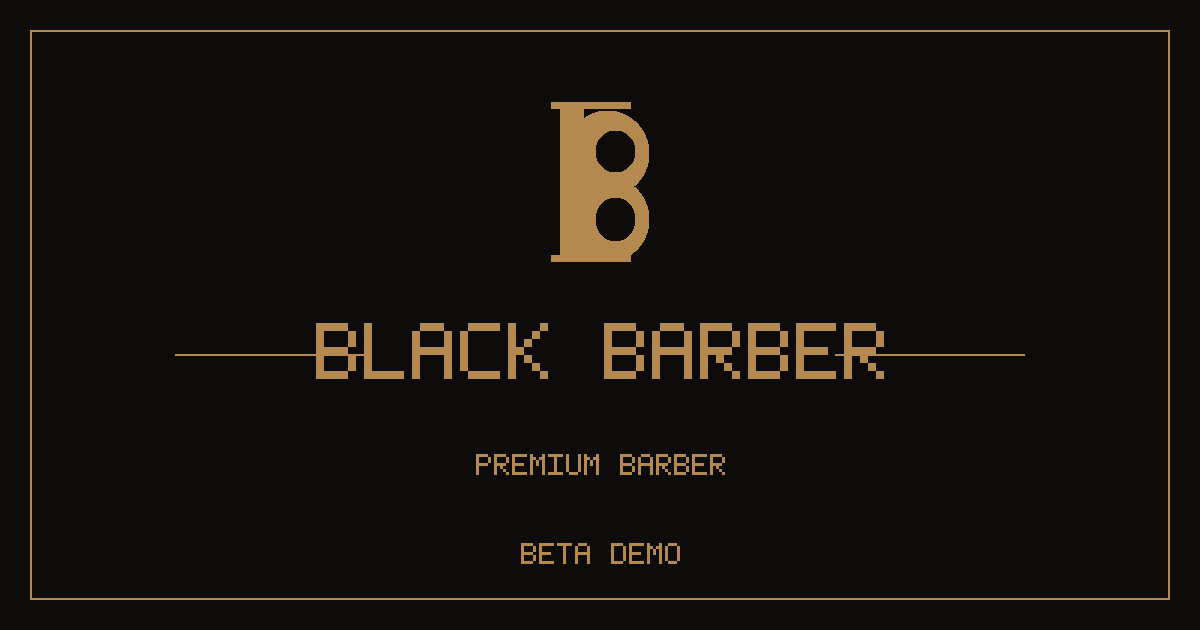
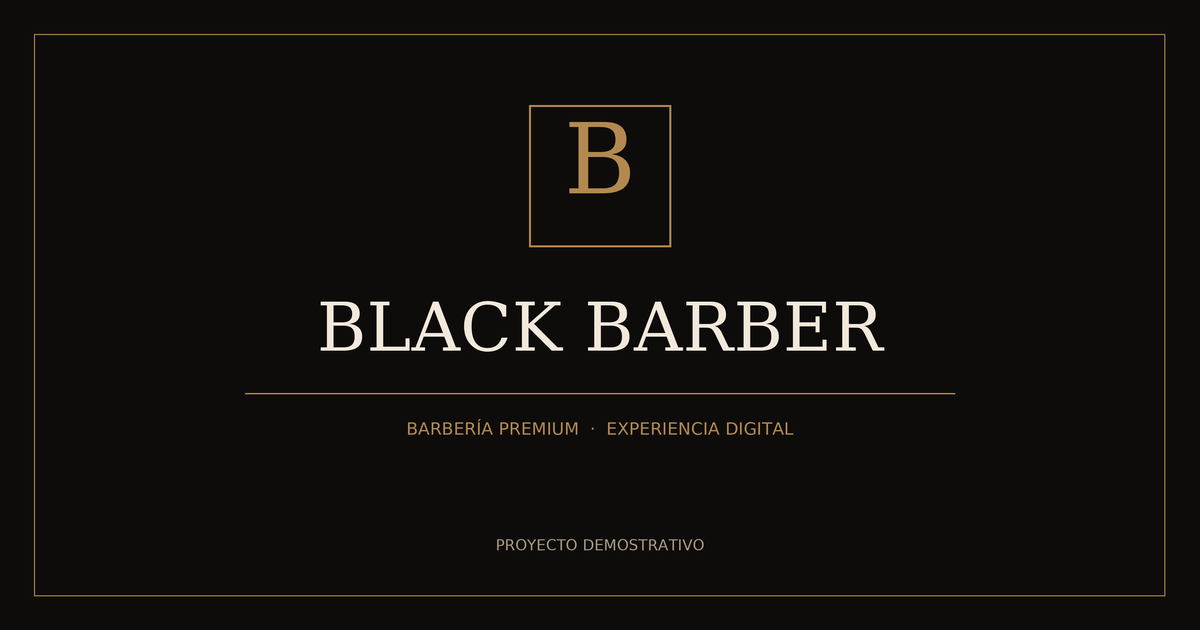
feat: finalizar BLACK BARBER BETA y controles de calidad
* ci: add agency browser quality checks (tests/demo.spec.cjs)

* ci: add agency browser quality checks (playwright.config.cjs)

* ci: add agency browser quality checks (.github/workflows/agency-quality.yml)

* test: assert textarea value rather than text content

* ci: run quality checks on pull requests without duplicate pushes

* docs: establish agency-wide autonomous CI and release policy

* ci: add reusable fail-closed release verification

* ci: verify merged PR and successful checks before release

* ci: validate release gate script in pull request checks

* ci: expose release check on PR while enforcing policy only on main

* test: verify OG metadata and browser-decodable 1200x630 image

* test: detect horizontal overflow across mobile and tablet menu states

* test: cover tablet breakpoint boundaries for horizontal overflow

* test: inspect actual Open Graph image color fidelity

* fix: activate compact navigation before tablet header overflows

* test: validate menu opening through the corrected tablet breakpoint

* chore: temporary one-shot workflow to rebuild anti-aliased OG asset

* fix: add reproducible high-resolution Open Graph image renderer

* fix: regenerate crisp anti-aliased Open Graph image

* test: reject severely posterized social image

* chore: remove temporary OG regeneration workflow after successful asset rebuild

* test: capture browser screenshots as downloadable GitHub Actions artifact
[…]

diff --git a/index.html b/index.html
@@ -190,6 +190,11 @@
   .nav-toggle[aria-expanded="true"] span{ background:transparent; }
   .nav-toggle[aria-expanded="true"] span::before{ top:0; transform:rotate(45deg); }
   .nav-toggle[aria-expanded="true"] span::after{ top:0; transform:rotate(-45deg); }
+  .nav-toggle[aria-expanded="true"] span{ visibility:hidden; }
+  .nav-toggle[aria-expanded="true"]::after{
+    content:"×"; position:absolute; inset:0; display:flex; align-items:center; justify-content:center;
+    color:var(--bone); font-size:25px; line-height:1;
+  }
 
   /* =========================================================
      HERO
@@ -496,7 +501,7 @@
     .footer-top{ grid-template-columns:1fr 1fr; }
   }
 
-  @media (max-width: 860px){
+  @media (max-width: 1023px){
     .primary-nav{
       position:fixed; inset:0 0 0 auto; width:min(78vw,340px);
       background:var(--ink-soft); border-left:1px solid var(--line);

diff --git a/.github/scripts/verify-release.py b/.github/scripts/verify-release.py
@@ -1,0 +1,70 @@
+#!/usr/bin/env python3
+"""Fail-closed release gate: main commits must come from a merged PR with passing checks."""
+import json
+import os
+import sys
+import urllib.error
+import urllib.parse
+import urllib.request
+
+
+def fail(message):
+    print("RELEASE BLOCKED:", message, file=sys.stderr)
+    sys.exit(1)
+
+
+def github_api(path):
+    request = urllib.request.Request(
+        "https://api.github.com" + path,
+        headers={
+            "Accept": "application/vnd.github+json",
+            "Authorization": "Bearer " + os.environ["GH_TOKEN"],
+            "X-GitHub-Api-Version": "2022-11-28",
+            "User-Agent": "agencia-web-release-gate",
+        },
+    )
+    try:
+        with urllib.request.urlopen(request, timeout=20) as response:
+            return json.load(response)
+    except (urllib.error.HTTPError, urllib.error.URLError, ValueError) as error:
+        fail("GitHub API could not be verified: " + str(error))
+
+
+repo = os.environ["GITHUB_REPOSITORY"]
+sha = os.environ["GITHUB_SHA"]
+expected = [entry.strip() for entry in os.environ["EXPECTED_WORKFLOWS"].split(",") if entry.strip()]
+if os.environ.get("GITHUB_REF") != "refs/heads/main":
+    fail("This gate only permits the main branch")
+if not expected:
+    fail("No required PR workflows configured")
+
+associated_prs = github_api("/repos/" + repo + "/commits/" + sha + "/pulls?per_page=100")
+approved_prs = [
+    pr for pr in associated_prs
+    if pr.get("merged_at")
+    and pr.get("base", {}).get("ref") == "main"
+    and pr.get("merge_commit_sha") == sha
+]
+if not approved_prs:
+    fail("Commit is not the merge result of a pull request into main")
+
+pr = approved_prs[0]
+head_sha = pr["head"]["sha"]
+query = urllib.parse.urlencode({"head_sha": head_sha, "event": "pull_request", "per_page": "100"})
+results = github_api("/repos/" + repo + "/actions/runs?" + query)
+runs = results.get("workflow_runs", [])
+for workflow_path in expected:
+    matching = [
+        run for run in runs
+        if run.get("path") == workflow_path
+        and run.get("head_sha") == head_sha
+        and run.get("event") == "pull_request"
+    ]
+    if not matching:
+        fail("No PR test run for " + workflow_path)
+    latest = max(matching, key=lambda run: (run.get("updated_at", ""), run.get("run_attempt", 0)))
+    if latest.get("status") != "completed" or latest.get("conclusion") != "success":
+        fail(workflow_path + " was not successful (latest: " + str(latest.get("conclusion")) + ")")
+    print("PASSED", workflow_path, "run", latest["id"])
+
+print("RELEASE APPROVED: PR #" + str(pr["number"]) + " had all required checks.")

diff --git a/scripts/render_og.py b/scripts/render_og.py
@@ -1,0 +1,54 @@
+#!/usr/bin/env python3
+"""Generate BLACK BARBER's 1200x630 social card with anti-aliased typography."""
+from pathlib import Path
+from PIL import Image, ImageDraw, ImageFont
+
+W, H, SCALE = 1200, 630, 3
+BG = "#0e0c0a"
+GOLD = "#b3894f"
+CREAM = "#f2e9dc"
+MUTED = "#a99b84"
+FONTS = Path("/usr/share/fonts/truetype/dejavu")
+SERIF = FONTS / "DejaVuSerif.ttf"
+SANS = FONTS / "DejaVuSans.ttf"
+
+image = Image.new("RGB", (W * SCALE, H * SCALE), BG)
+draw = ImageDraw.Draw(image)
+
+
+def rectangle(bounds, fill=None, outline=None, line=1):
+    draw.rectangle(
+        tuple(round(p * SCALE) for p in bounds),
+        fill=fill, outline=outline, width=line * SCALE,
+    )
+
+
+def centered_text(y, value, font_path, font_size, color, tracking=0):
+    font = ImageFont.truetype(str(font_path), font_size * SCALE)
+    bounds = draw.textbbox((0, 0), value, font=font)
+    if tracking:
+        advances = [draw.textlength(character, font=font) for character in value]
+        total = sum(advances) + (len(value) - 1) * tracking * SCALE
+        x = (W * SCALE - total) / 2
+        for character, advance in zip(value, advances):
+            draw.text((round(x), round(y * SCALE - bounds[1])),
+                      character, fill=color, font=font)
+            x += advance + tracking * SCALE
+    else:
+        x = (W * SCALE - (bounds[2] - bounds[0])) / 2
+        draw.text((round(x), round(y * SCALE - bounds[1])),
+                  value, fill=color, font=font)
+
+
+rectangle((34, 34, 1165, 596), outline=GOLD)
+rectangle((529, 105, 671, 247), outline=GOLD, line=2)
+centered_text(122, "B", SERIF, 98, GOLD)
+centered_text(301, "BLACK BARBER", SERIF, 67, CREAM, tracking=0.4)
+rectangle((245, 393, 955, 394), fill=GOLD)
+centered_text(419, "BARBERÍA PREMIUM  ·  EXPERIENCIA DIGITAL",
+              SANS, 17, GOLD, tracking=0.1)
+centered_text(539, "PROYECTO DEMOSTRATIVO", SANS, 15, MUTED, tracking=0.1)
+
+output = Path(__file__).resolve().parent.parent / "black-barber-og.png"
+image.resize((W, H), Image.Resampling.LANCZOS).save(output, optimize=True)
+print(f"Created {output}: 1200x630, RGB, anti-aliased")

diff --git a/AGENTS.md b/AGENTS.md
@@ -1,0 +1,29 @@
+# AGENCIA WEB | POLÍTICA DE DESARROLLO Y PUBLICACIÓN
+
+Estas instrucciones aplican a cualquier agente que trabaje en este repositorio. Se reutilizan en las BETA y en futuros proyectos de clientes.
+
+## Desarrollo autónomo
+- Nunca desarrollar ni hacer commits de prueba directamente en `main`.
+- Crear una rama de trabajo (`feat/*`, `fix/*`, `audit/*` o `ci/*`).
+- Agrupar cambios por objetivo. Evitar pushes repetitivos y despliegues de prueba innecesarios.
+- Ejecutar las pruebas disponibles y corregir fallos antes de integrar.
+- Crear un pull request hacia `main` y comprobar GitHub Actions. Si falla o no se ejecuta, **no integrar**.
+- No afirmar que algo fue probado si solo se revisó el código o se escribió la prueba.
+
+## Publicación
+- `main` representa la versión candidata a producción, no un entorno de pruebas.
+- Integrar solo cambios comprobados y autorizados para esa publicación por Dirección General.
+- No forzar pushes ni crear despliegues manuales en Vercel sin orden expresa.
+- No intentar repetidamente un despliegue cuando se alcanza la cuota.
+- Después de publicar, comprobar la URL real y las funciones principales antes de declarar el cierre.
+
+## Seguridad de demostraciones y clientes
+- Las BETA no deben enviar mensajes reales, procesar cobros ni usar contactos personales.
+- No exponer tokens, claves ni datos de clientes en código, logs, comentarios o artifacts.
+- No cambiar producción, dominios, permisos ni configuraciones sensibles sin autorización.
+- Los proyectos reales usan sus propias variables, repositorios y datos.
+
+## Reporte de cierre
+Informar rama, commits, pruebas realmente ejecutadas (resultado y enlace), errores, pendientes y versión desplegada.
+
+**Nota:** este archivo establece instrucciones de trabajo; no sustituye una regla de protección técnica de GitHub ni los Deployment Checks de Vercel. Es necesario habilitar esos controles de forma independiente para impedir un bypass.
